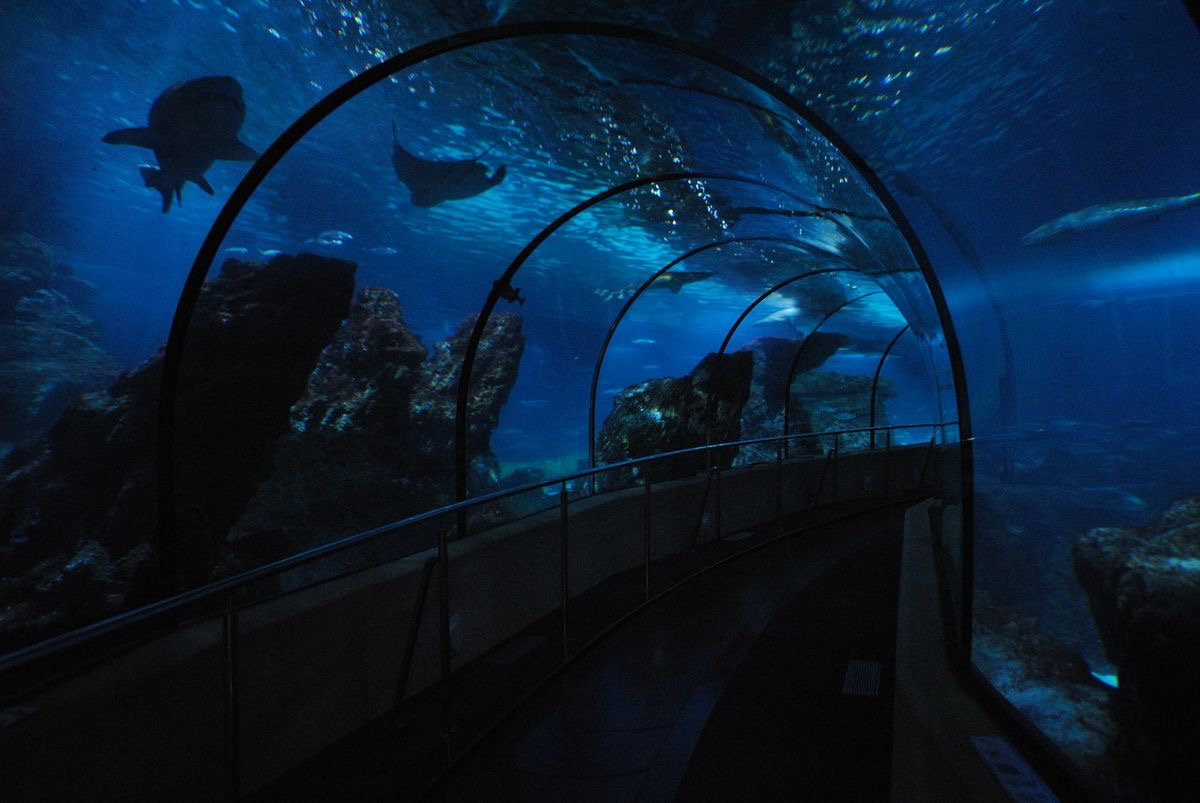
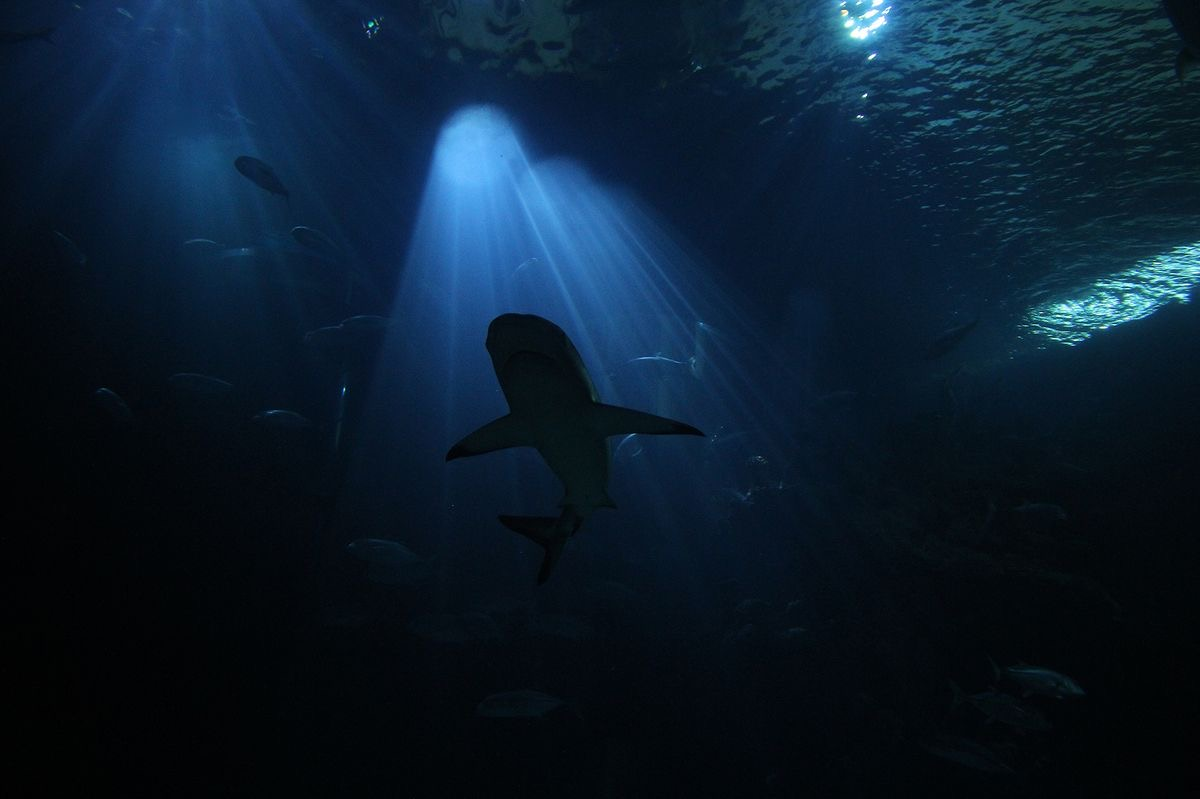
Restyling About

diff --git a/index.html b/index.html
@@ -80,73 +80,73 @@
       </section>
 
       <!-- About Section -->
-      <section id="about">
+      <section id="about" class="position-relative overflow-hidden">
         <span class="section-label">ABOUT US</span>
-        <p class="section-desc">THIS IS ABOUT US</p>
+        <p class="section-desc">This is About Us</p>
 
-        <div class="fill-abt">
-          <div class="left-img">
-            <img src="assets/stream.jpg" alt="aqua" width="420" height="300" />
-          </div>
+        <div class="container py-4">
+          <div class="row align-items-center g-5">
+            <div class="col-lg-5">
+              <div class="img-abt">
+                <img
+                  src="assets/stream.jpg"
+                  alt="aqua"
+                  width="420"
+                  height="300"
+                />
+              </div>
+            </div>
 
-          <div class="right-desc">
-            <h1>We Bring The <span class="sea">Ocean</span> Close To You</h1>
+            <div class="col-lg-7">
+              <div class="ps-lg-4" style="text-align: left">
+                <h1 class="text-white fw-bold mb-3" style="max-width: 400px">
+                  We Bring The <span class="sea">Ocean</span> Close To You
+                </h1>
 
-            <p>
-              Oceavora was built with a mission to educate, entertain, and
-              inspire all generations about marine life. We have thousands of
-              animals and provide an unforgettable experience for visitors.
-            </p>
+                <p class="text-white fw-bold mb-3" style="max-width: 500px">
+                  Oceavora was built with a mission to educate, entertain, and
+                  inspire all generations about marine life. We have thousands
+                  of animals and provide an unforgettable experience for
+                  visitors.
+                </p>
 
-            <div class="container">
-              <div class="row text-center">
-                <div class="col-md-4">
-                  <div
-                    class="d-flex align-items-center justify-content-center gap-3"
-                  >
-                    <div
-                      class="icon bg-info rounded-circle text-white d-flex justify-content-center align-items-center"
-                    >
-                      <i class="fa-solid fa-water fs-4"></i>
-                    </div>
+                <div class="row g-4 text-start">
+                  <div class="col-sm-4">
+                    <div class="d-flex align-items-center gap-2 text-white">
+                      <div class="stat-icon">
+                        <i class="fa-solid fa-water fs-4"></i>
+                      </div>
 
-                    <div class="icon-desc text-start">
-                      <h4 class="mb-1 fw-bold">10+</h4>
-                      <p>Years Experience</p>
-                    </div>
-                  </div>
-                </div>
-
-                <div class="col-md-4">
-                  <div
-                    class="d-flex align-items-center justify-content-center gap-3"
-                  >
-                    <div
-                      class="icon bg-info rounded-circle text-white d-flex justify-content-center align-items-center"
-                    >
-                      <i class="fa-solid fa-fish fs-4"></i>
-                    </div>
-
-                    <div class="icon-desc text-start">
-                      <h4 class="mb-1 fw-bold">250+</h4>
-                      <p>Marine Species</p>
+                      <div class="mt-3">
+                        <h4 class="mb-1 fw-bold">10+</h4>
+                        <p>Years Experience</p>
+                      </div>
                     </div>
                   </div>
-                </div>
 
-                <div class="col-md-4">
-                  <div
-                    class="d-flex align-items-center justify-content-center gap-3"
-                  >
-                    <div
-                      class="icon bg-info rounded-circle text-white d-flex justify-content-center align-items-center"
-                    >
-                      <i class="fa-solid fa-users fs-4"></i>
+                  <div class="col-sm-4">
+                    <div class="d-flex align-items-center gap-3 text-white">
+                      <div class="stat-icon">
+                        <i class="fa-solid fa-fish fs-4"></i>
+                      </div>
+
+                      <div class="mt-3">
+                        <h4 class="mb-1 fw-bold">200+</h4>
+                        <p>Marine Species</p>
+                      </div>
                     </div>
+                  </div>
 
-                    <div class="icon-desc text-start">
-                      <h4 class="mb-1 fw-bold">1M+</h4>
-                      <p>Visitors Every Year</p>
+                  <div class="col-sm-4">
+                    <div class="d-flex align-items-center gap-3 text-white">
+                      <div class="stat-icon">
+                        <i class="fa-solid fa-users fs-4"></i>
+                      </div>
+
+                      <div class="mt-3">
+                        <h4 class="mb-1 fw-bold">1M+</h4>
+                        <p>Visitors A Year</p>
+                      </div>
                     </div>
                   </div>
                 </div>

diff --git a/style.css b/style.css
@@ -108,56 +108,54 @@ nav a:hover {
   font-weight: 700;
   text-transform: uppercase;
   letter-spacing: 2px;
-  color: #08a5e8;
+  color: #e0f9fd;
   margin-bottom: 0.3rem;
+
+  text-shadow: 0 0 5px #054981;
 }
 
 .section-desc {
   font-size: 2rem;
   font-weight: 700;
-  color: #065679;
+  color: #d9f9ff;
   margin-bottom: 2rem;
+
+  text-shadow: 0 0 15px #054981;
 }
 
 /* === About === */
 #about {
-  padding: 180px 80px 80px;
+  padding: 100px 80px 80px;
   min-height: 100vh;
   text-align: center;
 }
 
-.fill-abt {
-  display: flex;
-  align-items: center;
-  justify-content: space-around;
-  gap: 5rem;
-}
-
-.left-img img {
-  border-radius: 10px;
-}
-
-.right-desc {
-  /* max-width: 400px; */
-}
-
-.right-desc h1 {
-  font-size: 2.5rem;
-  font-weight: 700;
-  margin-bottom: 0.8rem;
-  text-align: left;
-}
-
-.right-desc p {
-  font-weight: 500;
-  max-width: 450px;
-  margin-bottom: 1.7rem;
-  text-align: left;
-}
-
-.icon {
+.stat-icon {
   width: 50px;
   height: 50px;
+  border-radius: 50%;
+  background: #08a5e8;
+  color: white;
+  font-size: 25px;
+  display: flex;
+  justify-content: center;
+  align-items: center;
+}
+
+.img-abt {
+  overflow: hidden;
+  border-radius: 12px;
+  border: 1px solid #058ec9;
+}
+
+.img-abt img {
+  transition: transform 0.3s ease;
+  object-fit: cover;
+  display: block;
+}
+
+.img-abt:hover img {
+  transform: scale(1.05);
 }
 
 /* === Animals === */
